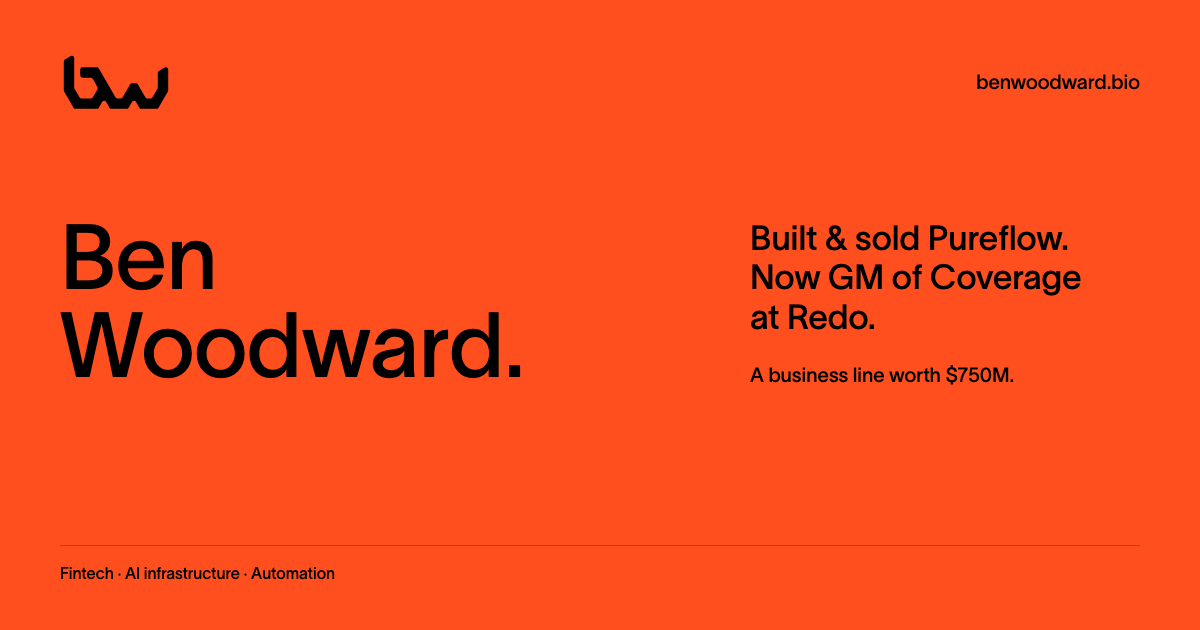
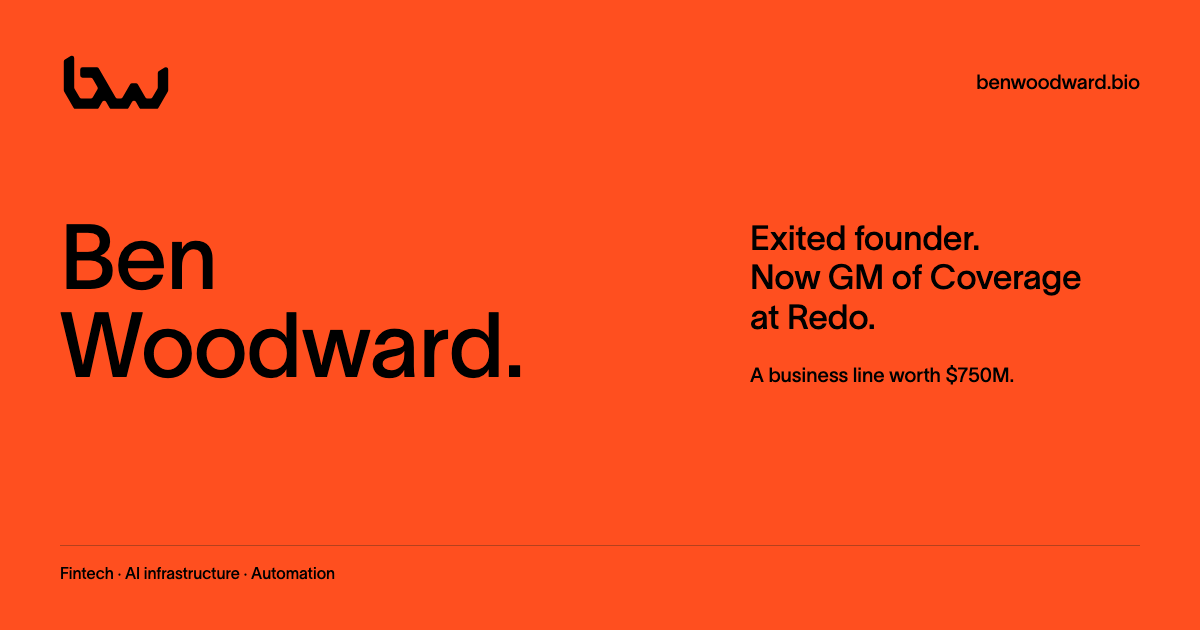
Use exited founder positioning and simplify header socials

Changed region(s): [[0.6167, 0.3619, 0.8942, 0.4222]]

diff --git a/src/data/profile.ts b/src/data/profile.ts
@@ -16,7 +16,7 @@ export const currentRole = {
 type Work = { id: string; title: string; metric: string; description: string; illustration: IllustrationId; href?: string; action?: string };
 export const work: Work[] = [
   { id: "fintech", title: "Fintech & fraud systems", metric: "$500M+", description: "Scaled financial and fraud infrastructure at Redo across merchants representing more than $500M in GMV.", illustration: "financial-systems", href: "https://redo.com", action: "About Redo" },
-  { id: "pureflow", title: "Water-quality analytics", metric: "Six-figure exit", description: "Built and sold Pureflow, a data product that translated water-quality inputs into personalized health reports.", illustration: "water-measurement" },
+  { id: "pureflow", title: "Water-quality analytics", metric: "Six-figure exit", description: "Founded Pureflow, a water-quality analytics product for personalized health reports; later exited the business.", illustration: "water-measurement" },
   { id: "onboarding", title: "Onboarding automation", metric: "~20 minutes", description: "Re-architected merchant onboarding as an automated pipeline: 1+ week to ~20 minutes, 60% of the workflow automated, and eight figures onboarded autonomously.", illustration: "merchant-connection" },
   { id: "outbound", title: "AI outbound systems", metric: "$1.04M annual run-rate", description: "Built an autonomous AI outbound engine that reached this annual run-rate in under two weeks.", illustration: "outbound-system" },
   { id: "building", title: "Rapid prototyping", metric: "3× winner", description: "Engineered and demoed prototypes under tight constraints, with hackathon wins at 15, 19, and 22.", illustration: "prototype-building" },
@@ -49,7 +49,7 @@ export const chapters: Chapter[] = [
   { id: "endurance", age: "22", label: "ENDURANCE", title: "Helsinki Marathon in 3.5 hours.", text: "Ran it at 22 without training.", photos: [
     { file: "marathon.jpg", caption: "After finishing the Helsinki Marathon." },
   ] },
-  { id: "software", age: "22", label: "SOFTWARE", title: "Built and sold Pureflow.", text: "Built a water-quality analytics product and sold it in a six-figure exit. Separately, scaled no-touch AI outbound to a $1.04M annual run-rate in under two weeks.", photos: [] },
+  { id: "software", age: "22", label: "SOFTWARE", title: "Exited Pureflow.", text: "A six-figure exit in water-quality analytics. Separately, scaled no-touch AI outbound to a $1.04M annual run-rate in under two weeks.", photos: [] },
   { id: "redo", age: "22", label: "OPERATOR", title: "Joined Redo as an operator.", text: "Left BYU to become GM of AI infrastructure at Redo.", photos: [] },
   { id: "now", age: "Now", label: "NOW", title: "GM of Coverage", text: "Leading a business line worth $750M at Redo.", photos: [] },
 ];

diff --git a/QA_REPORT.md b/QA_REPORT.md
@@ -4,11 +4,13 @@
 
 Pureflow/name revision: replaced the “Watch Pureflow” link and video dialog with a frameless, transparent inline entrance. Sources remain inert until meaningful visibility; native playback pauses offscreen/in background tabs, plays only once, and holds its final frame. A regenerated white-background poster handles reduced motion, no JavaScript, blocked autoplay and failed media. HEVC-alpha and WebM remain available; no exit clip is requested. Added `test:pureflow` for playback, transparent-pixel checks, five widths and these fallbacks. Evidence: `/tmp/bio-pureflow-chromium` and `/tmp/bio-pureflow-webkit`.
 
-All displayed/indexable/accessibility branding and generated brand titles now use Ben Woodward. Existing social URLs/handles remain intact. The current hero copy names the Pureflow sale and the GM of Coverage role separately. Search descriptions, structured data, manifest, and the regenerated social card use the same distinction. The $750M figure describes the business line's worth, not revenue or a founder claim.
+All displayed/indexable/accessibility branding and generated brand titles now use Ben Woodward. Existing social URLs/handles remain intact. The current hero says “Exited founder” and separately names the GM of Coverage role. Search descriptions, structured data, manifest, and the regenerated social card use the same distinction. The $750M figure describes the business line's worth, not revenue or a founder claim.
 
 Latest editorial revision: work descriptions now foreground the problem, action, and result; Pureflow copy describes personalized water-quality reports visible in the supplied product preview. The age timeline reads as a progression from hardware and ecommerce through the exit and operating roles. No financial units were added. Section headings were simplified to “Selected work” and “How I got here.”
 
 Owner correction: the three hackathon wins occurred at 15, 19, and 22. The current work card, timeline age marker, photo captions, and content check use those ages without assigning an AI category or a first-place finish to a particular year.
+
+Header follow-up: Instagram was removed from the header's social icons. Its existing destination remains in the footer and profile metadata.
 
 Verification for this revision: `test:pureflow` passes in Chromium and WebKit, including native alpha transparency and four poster fallbacks. The 16-group browser regression, artwork/timeline suite and intro/SEO suite pass in Chromium. Reviewed desktop/mobile inline media and the regenerated social card. Astro check/build pass with the same two pre-existing hints and private-globe chunk warning as baseline; `git diff --check` is clean. The browser regression now waits for gallery focus-return clearance before its next synthetic scroll. No deployment or Operator-directory edits were made.
 
